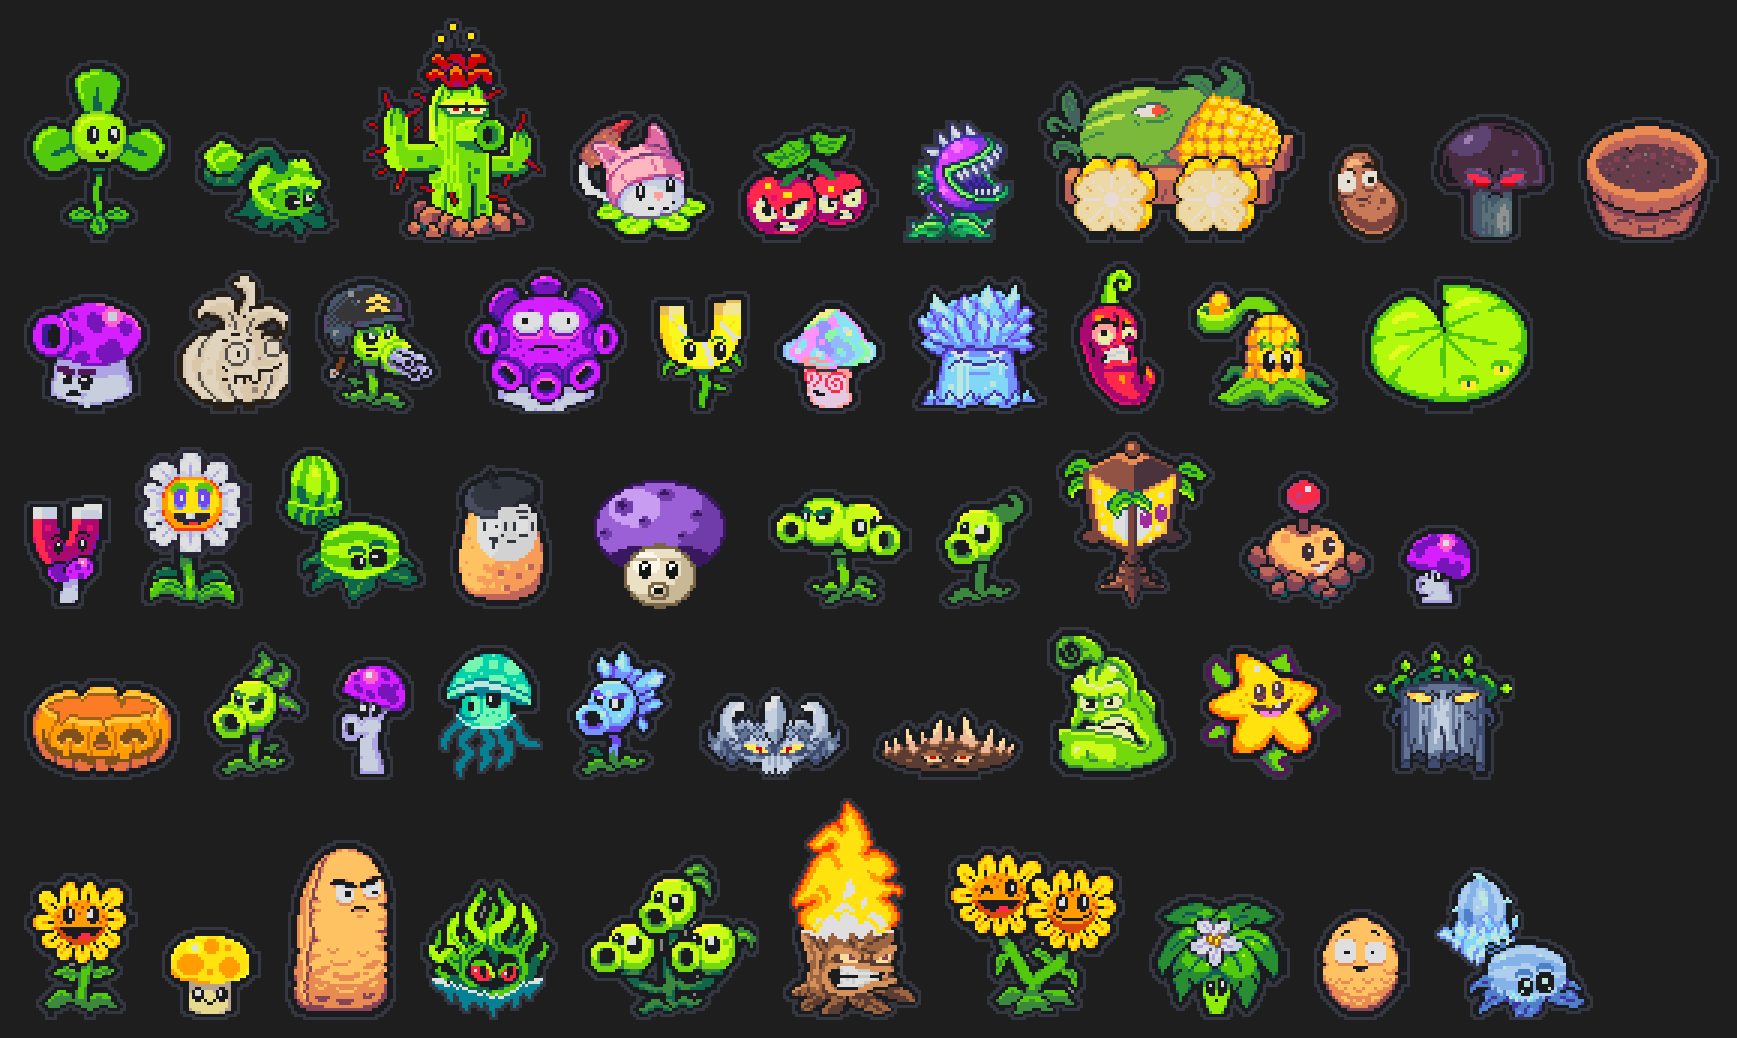
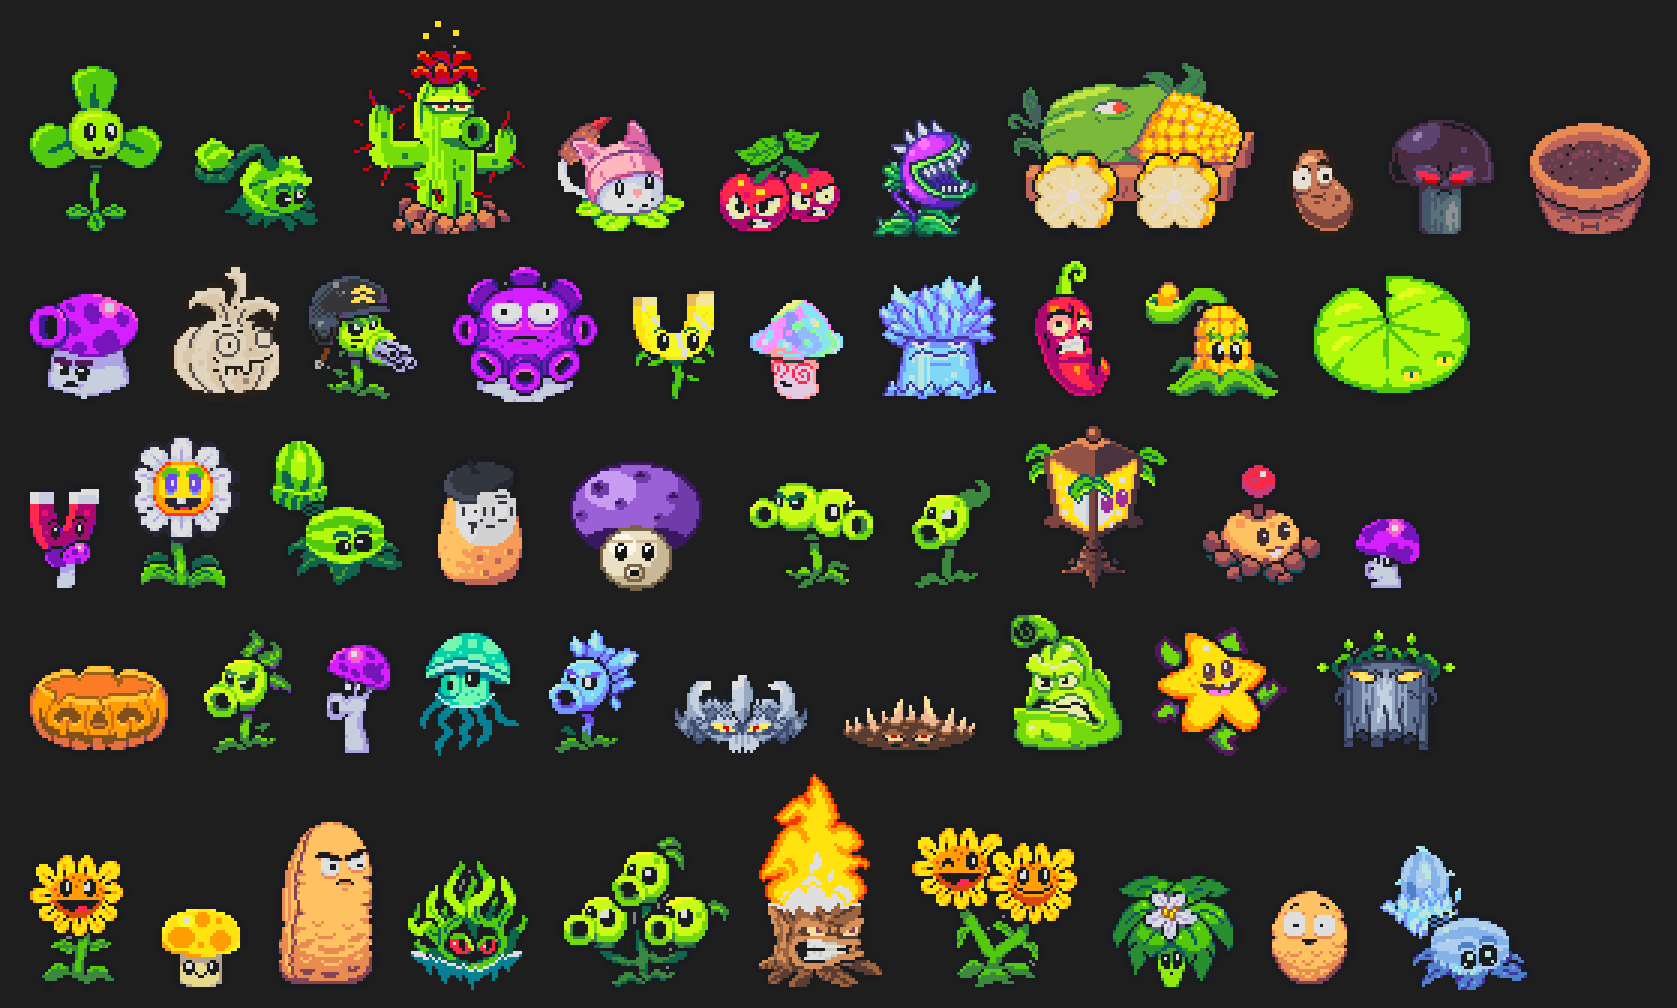
Drop the slate ring: plants keep only their original black outlines
The tab tint sits a touch above black so the outlines still read on it.

Claude-Session: https://claude.ai/code/session_011gomDeFZQx8vqBr2nnvHXD

diff --git a/make_themes.py b/make_themes.py
@@ -40,7 +40,7 @@ for path in sorted(glob.glob(os.path.join(here, "out", "*.ans"))):
         strength = min(1.0, s * 1.3)
     else:                                    # a colourless plant gets a neutral slate
         h, strength = 0.62, 0.25
-    theme = (osc(11, tint(h, 0.55 * strength, 0.11))      # background
+    theme = (osc(11, tint(h, 0.50 * strength, 0.17))      # background: a touch above black so black outlines show
              + osc(10, tint(h, 0.14 * strength, 0.90))    # text
              + osc(12, tint(h, 0.80 * strength, 0.95)))   # cursor
     with open(path[:-4] + ".theme", "w", encoding="utf-8", newline="") as f:
